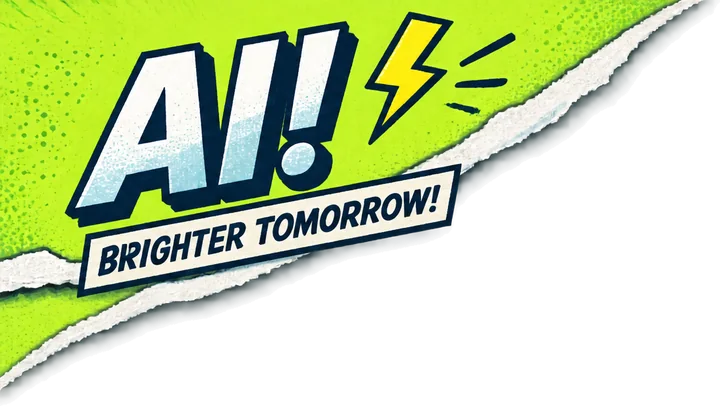
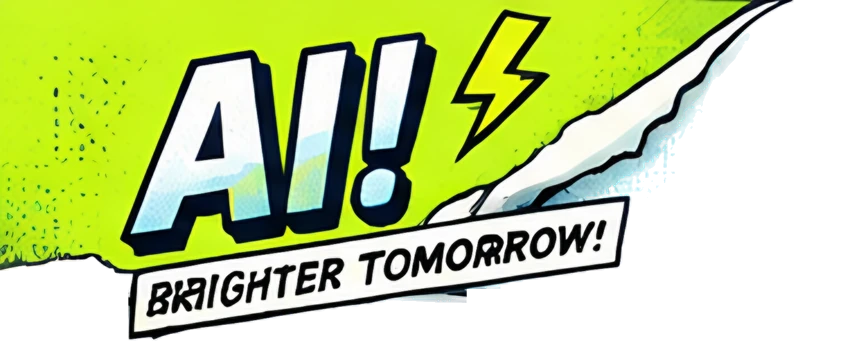
feat(frontend): 首页撕纸贴纸改为从概念图 1:1 抠出的原画图层
左上角与右下卷页取自 prev D 概念图，刊头喊话取自 1-burst 概念图，均为原画像素
抠图（泛洪去页面 + 多边形擦除概念图自带界面 + 颜色转透明），4× 放大后导出 WebP，
不再用生成图重画。

- 左上角：青柠底 "AI!"、闪电、"BRIGHTER TOMORROW!" 飘带与卷起纸片，按刊头横线对齐缩放。
- 刊头喊话：青色撕洞 + 墨迹碎片 + 手写"让创造更自由！"，满尺寸时从页顶撕到横线；
  1280–1865px 缩小时顶边不再贴页顶，用矢量撕口封边（遮罩 + 纸纤维墨线）代替直切边；
  其他语言用抹掉手写字的版本 + 实时 SVG 字。
- 右下卷页：大号卷页 + "MORE CREATORS! / A BRIGHTER WORLD"，最大 550px，受 dock 与高度约束；
  UI 灵感卡说明行在整宽预览下改为标题在上、链接在下，并按卷页 alpha 拟合的距离让位；
  英文 1600–1799px 卷页过小，不显示（与 main 一致）。

diff --git a/frontend/src/comic-theme.css b/frontend/src/comic-theme.css
@@ -37,13 +37,10 @@
   --metric-visitors: #b0a0ff;
   --metric-visitors-ink: #693de8;
   --metric-total-visitors-ink: #1677e9;
-  --sticker-line: #071735;
   --sticker-ink: #071735;
-  --sticker-shadow: #142345;
   --sticker-peel: #f4f8e8;
   --sticker-tape: #fffef9c4;
   --sticker-accent: #071735;
-  --tear-fiber: #ffffff;
 }
 
 :root[data-theme='dark'] {
@@ -76,13 +73,10 @@
   --dock-account-ink: #94ca8b;
   --card-rgb: 41 42 45;
   --danger: #ef826b;
-  --sticker-line: #0e0f11;
   --sticker-ink: #17181b;
-  --sticker-shadow: #08090b;
   --sticker-peel: #d9dfcc;
   --sticker-tape: #e8e9ec38;
   --sticker-accent: var(--acid);
-  --tear-fiber: #d8dccf;
 }
 :root[data-theme='dark'] #app .app-shell--editorial .brand-comic { filter:none; }
 :root[data-theme='dark'] #app .app-shell--editorial .brand-comic img { content:url('/assets/comic/aigc-news-wordmark-night.webp'); }
@@ -168,57 +162,79 @@
   #app .app-shell--editorial .footer-nav { font-size: 12px; }
 }
 
-/* Comic stickers (ComicSticker.vue): painted, transparent layers over the page. The theme decides where
-   each may appear and how big its box is; every box keeps its image's aspect ratio. The rip beside the
-   account menu is a grid item in the masthead's third column, sized to the room left beside the menu. */
+/* Comic stickers (ComicSticker.vue): transparent layers lifted from the concept images, over the page. The
+   theme decides where each may appear and how big its box is; every box keeps its image's aspect ratio.
+   The masthead pieces are scaled so that the concept's masthead rule lands on this page's rule. */
 @media (min-width: 1280px) {
+  /* The shout is a hole torn from the masthead's top edge down to its rule, a grid item in the third column
+     beside the account menu. At full size (367px) it spans the masthead from the top to the rule (108px);
+     a narrower column shrinks it, still standing on the rule. */
   #app .app-shell--editorial .app-masthead .comic-masthead-creation {
-    display:block;position:relative;grid-column:3;grid-row:1;justify-self:end;align-self:center;
-    width:min(calc(100% - 152px),362px);aspect-ratio:900/229;margin-right:152px;
+    display:block;position:relative;grid-column:3;grid-row:1;justify-self:end;align-self:end;
+    width:min(calc(100% - 144px),367px);aspect-ratio:1101/324;margin:0 144px 2px 0;
   }
 }
 @media (min-width: 1500px) {
-  #app .app-shell--editorial .app-masthead .comic-masthead-creation { width:min(calc(100% - 166px),362px);margin-right:166px; }
-  /* The torn top-left corner lies over the masthead and its rule, left of the date line (x = 239) and
-     clear of the dashboard heading below it. */
-  #app .app-shell--editorial .comic-masthead-corner { display:block;position:absolute;left:0;top:0;width:232px;aspect-ratio:720/406;z-index:6; }
+  #app .app-shell--editorial .app-masthead .comic-masthead-creation { width:min(calc(100% - 158px),367px);margin-right:158px; }
+  /* The torn top-left corner: its lime ends just above the rule and its ribbon crosses it, left of the date
+     line (x = 239) and clear of the dashboard heading below. */
+  #app .app-shell--editorial .comic-masthead-corner { display:block;position:absolute;left:0;top:0;width:284px;aspect-ratio:852/345;z-index:6; }
 }
-/* The torn bottom-right corner: a square on the viewport's corner, over the UI card and the footer. The
-   tear crosses its box diagonally, so near the bottom it spans the whole box. --peel is the largest size
-   that leaves the card's heading row (card top = 668px) and the dock clear, capped at 400px. The footer
-   links move beside the brand to give the tear the footer's right column; the card's caption steps aside
-   by the tear's width at its row (about 74% of the size less the card's inset). */
+/* Below 1866px the shrunken shout no longer reaches the page's top edge, where the painting's rip is cut
+   straight, so a torn edge closes the rip's top: the mask trims the painting (and any live slogan) above
+   the tear, and the seal paints the paper fibre and ink along it. Both are drawn in the image's pixels. */
+@media (min-width: 1280px) and (max-width: 1865px) {
+  #app .app-shell--editorial .comic-masthead-creation > .comic-sticker__art,
+  #app .app-shell--editorial .comic-masthead-creation > .comic-sticker__slogan { mask:url('/assets/comic/tear-shout-seal-mask.svg') center / 100% 100% no-repeat; }
+  #app .app-shell--editorial .comic-masthead-creation::after { content:'';position:absolute;inset:0;background:url('/assets/comic/tear-shout-seal.svg') center / 100% 100% no-repeat; }
+  :root[data-theme='dark'] #app .app-shell--editorial .comic-masthead-creation::after { filter:brightness(.84) saturate(.9); }
+}
+/* The bottom-right peel: the page's corner curling up off lime, on the viewport's corner over the UI card
+   and the footer. --peel is its width: the concept's size (550px), or less where the dock (the curl's tail
+   runs along the bottom and must stay right of it) or the height (its crest must stay under the card's
+   heading row; card top = 668px) runs out. The footer links move beside the brand to give it the footer's
+   right column. */
 @media (min-width: 1600px) and (min-height: 800px) {
   #app .app-shell--editorial {
-    --peel:min(400px,calc(100dvh / var(--shell-zoom, 1) - 680px),calc((100vw / var(--shell-zoom, 1) - var(--home-dock-width)) / 2 - 16px));
+    --peel:min(550px,calc((100vw / var(--shell-zoom, 1) - var(--home-dock-width) - 26px) * .56),calc(100dvh / var(--shell-zoom, 1) * 2 - 1350px));
   }
-  #app .app-shell--editorial .comic-footer-sticker { display:block;position:absolute;right:-24px;bottom:-3px;width:var(--peel);aspect-ratio:1; }
+  #app .app-shell--editorial .comic-footer-sticker { display:block;position:absolute;right:-24px;bottom:-3px;width:var(--peel);aspect-ratio:1100/713; }
   #app .app-shell--editorial .dock-footer--editorial {
     grid-template-columns:max-content minmax(0,1fr) var(--home-dock-width) calc((100% - var(--home-dock-width)) / 2 - 16px);
   }
   #app .app-shell--editorial .dock-footer--editorial .footer-right { grid-column:2;justify-self:start;align-items:flex-start;margin-left:24px; }
   #app .app-shell--editorial .dock-footer--editorial .footer-nav { justify-content:flex-start; }
   #app .app-shell--editorial .dock-footer--editorial .footer-copyright { text-align:left; }
-  #app .app-shell--editorial .ui-inspiration__caption { padding-right:max(0px,calc(var(--peel) * .74 - 28px)); }
+  /* The caption steps aside by the curl's reach at its title's row (fitted to the art's alpha): beside a
+     thumbnail it sits mid-card, where the curl is still low; under a full-width preview it stacks its title
+     over the link, so the title keeps the row the curl reaches least and the short link runs under it. */
+  #app .app-shell--editorial .ui-inspiration__caption { padding-right:max(0px,calc(var(--peel) * .2 - 40px)); }
+  @container (min-height:170px) {
+    #app .app-shell--editorial .ui-inspiration__caption {
+      flex-direction:column;justify-content:flex-start;align-items:stretch;gap:2px;padding-right:max(0px,calc(var(--peel) * .81 - 226px));
+    }
+  }
 }
 /* At 1600px the brand and the Chinese links (~102 + 171px) have 11px to spare beside each other. */
 @media (min-width: 1600px) and (max-width: 1679px) and (min-height: 800px) {
   #app .app-shell--editorial .dock-footer--editorial .footer-right { margin-left:8px; }
 }
-/* A short card sets its caption beside the preview, higher up, where the tear is ~95px wide at any size. */
-@media (min-width: 1600px) and (min-height: 800px) and (max-height: 917px) {
-  #app .app-shell--editorial .ui-inspiration__caption { padding-right:64px; }
-}
 /* English brand and links (~165 + 220px) only fit beside each other from 1880px; below that the links
-   keep the right column and the tear shrinks to the room right of them. */
+   keep the right column and the peel shrinks to the room right of them (its tail spans its whole width). */
 @media (min-width: 1600px) and (max-width: 1879px) and (min-height: 800px) {
-  :root:lang(en) #app .app-shell--editorial { --peel:min(400px,calc(100dvh - 680px),calc(50vw - 708px)); }
+  :root:lang(en) #app .app-shell--editorial { --peel:min(550px,calc(100dvh * 2 - 1350px),calc(50vw - 708px)); }
   :root:lang(en) #app .app-shell--editorial .dock-footer--editorial { grid-template-columns:minmax(0,1fr) var(--home-dock-width) minmax(0,1fr); }
   :root:lang(en) #app .app-shell--editorial .dock-footer--editorial .footer-right {
     grid-column:3;justify-self:end;align-items:flex-end;margin-left:0;margin-right:calc(var(--peel) - 16px);
   }
   :root:lang(en) #app .app-shell--editorial .dock-footer--editorial .footer-nav { justify-content:flex-end; }
   :root:lang(en) #app .app-shell--editorial .dock-footer--editorial .footer-copyright { text-align:right; }
+}
+/* Below 1800px that room leaves the English peel under 192px, too small for its lettering: leave it out. */
+@media (min-width: 1600px) and (max-width: 1799px) and (min-height: 800px) {
+  :root:lang(en) #app .app-shell--editorial { --peel:0px; }
+  :root:lang(en) #app .app-shell--editorial .comic-footer-sticker { display:none; }
+  :root:lang(en) #app .app-shell--editorial .dock-footer--editorial .footer-right { margin-right:0; }
 }
 
 @media (min-width: 1024px) and (max-width: 1499px) {

diff --git a/frontend/src/components/layout/ComicSticker.vue b/frontend/src/components/layout/ComicSticker.vue
@@ -1,8 +1,9 @@
 <script setup lang="ts">
-// Decorative torn-paper comic stickers for the editorial homepage: painted, transparent WebP layers
-// laid over the page (see public/assets/comic/README.md). Every variant is aria-hidden: the slogans
-// repeat nothing a reader needs. The two corners have their English slogans painted in; the rip
-// beside the account menu is painted blank, so its localized slogan is live text.
+// Decorative torn-paper comic stickers for the editorial homepage: transparent WebP layers lifted pixel
+// for pixel out of the approved concept images and laid over the page (see public/assets/comic/README.md).
+// Every variant is aria-hidden: the slogans repeat nothing a reader needs. The two corners carry their
+// English slogans in the art. The shout carries the Chinese slogan as painted; any other slogan is lettered
+// live onto a copy with the painting's lettering removed.
 import { computed } from 'vue'
 import { letteringEm } from './comicLettering'
 
@@ -10,33 +11,41 @@ const props = defineProps<{ variant: 'corner' | 'shout' | 'peel'; text?: string 
 
 // Intrinsic sizes, so the boxes never shift while the images load.
 const ART = {
-  corner: { src: '/assets/comic/tear-corner.webp', width: 720, height: 406 },
-  shout: { src: '/assets/comic/tear-rip.webp', width: 900, height: 229 },
-  peel: { src: '/assets/comic/tear-peel.webp', width: 720, height: 720 },
+  corner: { src: '/assets/comic/tear-corner.webp', width: 852, height: 345 },
+  shout: { src: '/assets/comic/tear-shout.webp', width: 1101, height: 324 },
+  peel: { src: '/assets/comic/tear-peel.webp', width: 1100, height: 713 },
 } as const
+const PAINTED_SHOUT = '让创造更自由！'
+const BLANK_SHOUT = '/assets/comic/tear-shout-blank.webp'
 
-// Where the slogan sits in the rip's lime opening, in the rip image's pixels: the opening's fitted centre
-// line, and the widest span along it that stays lime 40px either side (x 268–674), less the shadow offset.
-const RIP_TEXT = { x: 471, y: 139, angle: -4.7, size: 70, maxLength: 380 }
+// The painted slogan's centre line in the shout image's pixels, its angle, and the length it spans.
+const SHOUT_TEXT = { x: 524, y: 157, angle: -9.8, size: 118, maxLength: 640 }
 
-const art = computed(() => ART[props.variant])
 const slogan = computed(() => {
   const text = props.variant === 'shout' ? props.text?.trim() : ''
-  if (!text) return null
-  // textLength pins the slogan to its measured advance, capped to the opening, so a late or missing
-  // font never spills it out of the rip.
-  return { text, length: Math.min(letteringEm(text) * RIP_TEXT.size, RIP_TEXT.maxLength) }
+  if (!text || text === PAINTED_SHOUT) return null
+  // textLength pins the slogan to its measured advance, capped to the painted slogan's span, so a late or
+  // missing font never spills it out of the rip.
+  return { text, length: Math.min(letteringEm(text) * SHOUT_TEXT.size, SHOUT_TEXT.maxLength) }
 })
+const art = computed(() => (slogan.value ? { ...ART.shout, src: BLANK_SHOUT } : ART[props.variant]))
 </script>
 
 <template>
   <span class="comic-sticker" :class="`comic-sticker--${variant}`" aria-hidden="true">
     <img class="comic-sticker__art" :src="art.src" :width="art.width" :height="art.height" alt="" loading="lazy" decoding="async" draggable="false">
     <svg v-if="slogan" class="comic-sticker__slogan" :viewBox="`0 0 ${art.width} ${art.height}`">
-      <g :transform="`rotate(${RIP_TEXT.angle} ${RIP_TEXT.x} ${RIP_TEXT.y})`" :font-size="RIP_TEXT.size">
-        <text class="comic-sticker__lettering comic-sticker__lettering--shadow" :x="RIP_TEXT.x + 7" :y="RIP_TEXT.y + 8" :textLength="slogan.length" lengthAdjust="spacingAndGlyphs" text-anchor="middle" dominant-baseline="central">{{ slogan.text }}</text>
-        <text class="comic-sticker__lettering" :x="RIP_TEXT.x" :y="RIP_TEXT.y" :textLength="slogan.length" lengthAdjust="spacingAndGlyphs" text-anchor="middle" dominant-baseline="central">{{ slogan.text }}</text>
-      </g>
+      <text
+        class="comic-sticker__lettering"
+        :x="SHOUT_TEXT.x"
+        :y="SHOUT_TEXT.y"
+        :transform="`rotate(${SHOUT_TEXT.angle} ${SHOUT_TEXT.x} ${SHOUT_TEXT.y})`"
+        :font-size="SHOUT_TEXT.size"
+        :textLength="slogan.length"
+        lengthAdjust="spacingAndGlyphs"
+        text-anchor="middle"
+        dominant-baseline="central"
+      >{{ slogan.text }}</text>
     </svg>
   </span>
 </template>
@@ -48,10 +57,11 @@ const slogan = computed(() => {
 .comic-sticker__art,.comic-sticker__slogan { position:absolute;inset:0;width:100%;height:100%;overflow:visible; }
 .comic-sticker__art { object-fit:contain; }
 .comic-sticker--corner .comic-sticker__art { object-position:left top; }
+.comic-sticker--shout .comic-sticker__art { object-position:center bottom; }
 .comic-sticker--peel .comic-sticker__art { object-position:right bottom; }
-/* The paper is painted cream-white; dim it with the rest of the page in the dark theme. */
+/* The paper is cream-white; dim it with the rest of the page in the dark theme. */
 :root[data-theme='dark'] .comic-sticker__art { filter:brightness(.84) saturate(.9); }
 
-.comic-sticker__lettering { fill:var(--sticker-ink);stroke:var(--tear-fiber);stroke-width:.16em;stroke-linejoin:round;paint-order:stroke;font-family:'AIGC Comic Lettering','DM Sans',sans-serif;font-weight:400;font-synthesis:none;letter-spacing:0; }
-.comic-sticker__lettering--shadow { fill:var(--sticker-shadow);stroke:var(--sticker-shadow); }
+/* Black brush lettering straight on the colour, like the painted slogan. */
+.comic-sticker__lettering { fill:var(--sticker-ink);font-family:'AIGC Comic Lettering','DM Sans',sans-serif;font-weight:400;font-synthesis:none;letter-spacing:0; }
 </style>

diff --git a/frontend/src/components/layout/ComicSticker.test.ts b/frontend/src/components/layout/ComicSticker.test.ts
@@ -11,24 +11,34 @@ describe('ComicSticker', () => {
   })
 
   it.each([
-    ['corner', '/assets/comic/tear-corner.webp', '720', '406'],
-    ['shout', '/assets/comic/tear-rip.webp', '900', '229'],
-    ['peel', '/assets/comic/tear-peel.webp', '720', '720'],
+    ['corner', '/assets/comic/tear-corner.webp', '852', '345'],
+    ['shout', '/assets/comic/tear-shout.webp', '1101', '324'],
+    ['peel', '/assets/comic/tear-peel.webp', '1100', '713'],
   ] as const)('paints the %s tear at its intrinsic size so it cannot shift layout', (variant, src, width, height) => {
     const image = mount(ComicSticker, { props: { variant } }).get('img')
     expect(image.attributes()).toMatchObject({ src, width, height, loading: 'lazy' })
   })
 
-  it('letters the localized slogan into the rip, pinned to its opening', () => {
+  it('shows the painted Chinese slogan as it is, with no lettering on top', () => {
     const wrapper = mount(ComicSticker, { props: { variant: 'shout', text: ' 让创造更自由！ ' } })
-    expect(wrapper.get('svg').attributes('viewBox')).toBe('0 0 900 229')
-    const texts = wrapper.findAll('text')
-    expect(new Set(texts.map(t => t.text()))).toEqual(new Set(['让创造更自由！']))
-    for (const text of texts) expect(Number(text.attributes('textLength'))).toBeLessThanOrEqual(380)
+    expect(wrapper.get('img').attributes('src')).toBe('/assets/comic/tear-shout.webp')
+    expect(wrapper.find('svg').exists()).toBe(false)
   })
 
-  it('leaves the rip blank without a slogan, and letters only the rip', () => {
-    expect(mount(ComicSticker, { props: { variant: 'shout', text: '  ' } }).find('svg').exists()).toBe(false)
+  it('letters any other slogan onto the blank rip, within the painted slogan\'s span', () => {
+    const wrapper = mount(ComicSticker, { props: { variant: 'shout', text: 'Create freely!' } })
+    expect(wrapper.get('img').attributes()).toMatchObject({ src: '/assets/comic/tear-shout-blank.webp', width: '1101', height: '324' })
+    expect(wrapper.get('svg').attributes('viewBox')).toBe('0 0 1101 324')
+    const text = wrapper.get('text')
+    expect(text.text()).toBe('Create freely!')
+    expect(Number(text.attributes('textLength'))).toBeGreaterThan(0)
+    expect(Number(text.attributes('textLength'))).toBeLessThanOrEqual(640)
+  })
+
+  it('keeps the painted rip without a slogan, and letters only the rip', () => {
+    const blank = mount(ComicSticker, { props: { variant: 'shout', text: '  ' } })
+    expect(blank.find('svg').exists()).toBe(false)
+    expect(blank.get('img').attributes('src')).toBe('/assets/comic/tear-shout.webp')
     expect(mount(ComicSticker, { props: { variant: 'corner', text: 'Create freely!' } }).find('svg').exists()).toBe(false)
     expect(mount(ComicSticker, { props: { variant: 'peel', text: 'Create freely!' } }).find('svg').exists()).toBe(false)
   })

diff --git a/frontend/public/assets/comic/README.md b/frontend/public/assets/comic/README.md
@@ -9,10 +9,12 @@ The light logo and integrated robot total approximately 163 KB. Assets are local
 
 `aigc-news-wordmark-night.webp` is a 55 KB night-specific derivative of the existing wordmark: its alpha edge is contracted by one source pixel at 3× working resolution and antialiased before export; lime is subdued and whites slightly softened. This removes the light extraction fringe against charcoal without changing the lettering. All three night glitch layers share the same cached image; the animation still uses their original pixels without neon tint.
 
-The torn-paper stickers (`ComicSticker.vue`) are three painted layers laid over the page, each generated directly with `background=transparent` through the user-authorized image endpoint, with the user's torn-corner concept image as the style reference (the peel also took an earlier generated robot as its character reference); each prompt is next to its image (`*.prompt.txt`). Near-opaque alpha (≥245) was clamped to 255 and near-clear alpha (≤8) to 0, the canvas was trimmed to the drawing (keeping the corner that meets the viewport), resized and compressed to WebP quality 86:
+The torn-paper stickers (`ComicSticker.vue`) are three layers lifted pixel for pixel out of the user's approved concept images, not redrawn: the masthead shout from the "1-burst" concept, and the top-left corner and bottom-right peel from the "prev D" concept. Each region was cropped from the concept and the page around the drawing removed by flood-filling the near-white page from seeds outside it, with ink (luminance < 215) and colour (saturation > 40) as barriers. Hand-placed polygons erased the concept's own interface (its masthead rule, date, avatar, card borders and caption), and a zone polygon keeps the peel to its curl. Pixels the fill reached were converted colour-to-alpha against the page colour and unblended. The crops were upscaled 4× (Real-ESRGAN anime6B blended 60/40 with Lanczos so the halftone and paper grain survive), alpha clamped (≥250 to 255, ≤6 to 0) and exported to WebP quality 90 (alpha quality 95):
 
-- `tear-corner.webp` (720×406, 46 KB): the page's top-left corner torn away over lime, with "AI!", a bolt and a "BRIGHTER TOMORROW!" ribbon painted in.
-- `tear-peel.webp` (720×720, 86 KB): the page's bottom-right corner torn diagonally, a robot punching up out of the lime with a "MORE CREATORS! / A BRIGHTER WORLD" label painted in.
-- `tear-rip.webp` (900×229, 39 KB): a wide gash showing blank lime; the localized masthead slogan is live SVG text set into the opening.
+- `tear-corner.webp` (852×345, 50 KB): the page's top-left corner torn away over lime, with "AI!", a bolt, a "BRIGHTER TOMORROW!" ribbon crossing the masthead rule and the curled paper flap.
+- `tear-shout.webp` (1101×324, 88 KB): a cyan hole torn from the masthead's top edge down to its rule, black ink shards around it and "让创造更自由！" brushed in.
+- `tear-shout-blank.webp` (1101×324, 87 KB): the same hole with the lettering painted out (a diffusion fill plus halftone texture sampled from the surrounding colour), so another locale's slogan can be set into it as live SVG text.
+- `tear-peel.webp` (1100×713, 47 KB): the page's bottom-right corner curling up off lime, with "MORE CREATORS! / A BRIGHTER WORLD" painted in.
+- `tear-shout-seal.svg`, `tear-shout-seal-mask.svg` (6 KB, 1 KB): a torn paper edge in the shout image's coordinates. Where the masthead is too narrow for the shout at full size, the shrunken hole no longer reaches the page's top edge; the mask trims the painting above the tear and the seal draws its paper fibre and ink. They were generated from a seeded jagged line kept clear of the lettering.
 
-The paper is painted cream-white, so the dark theme dims the layers with a CSS filter instead of shipping night variants.
+The paper is cream-white, so the dark theme dims the layers with a CSS filter instead of shipping night variants.
